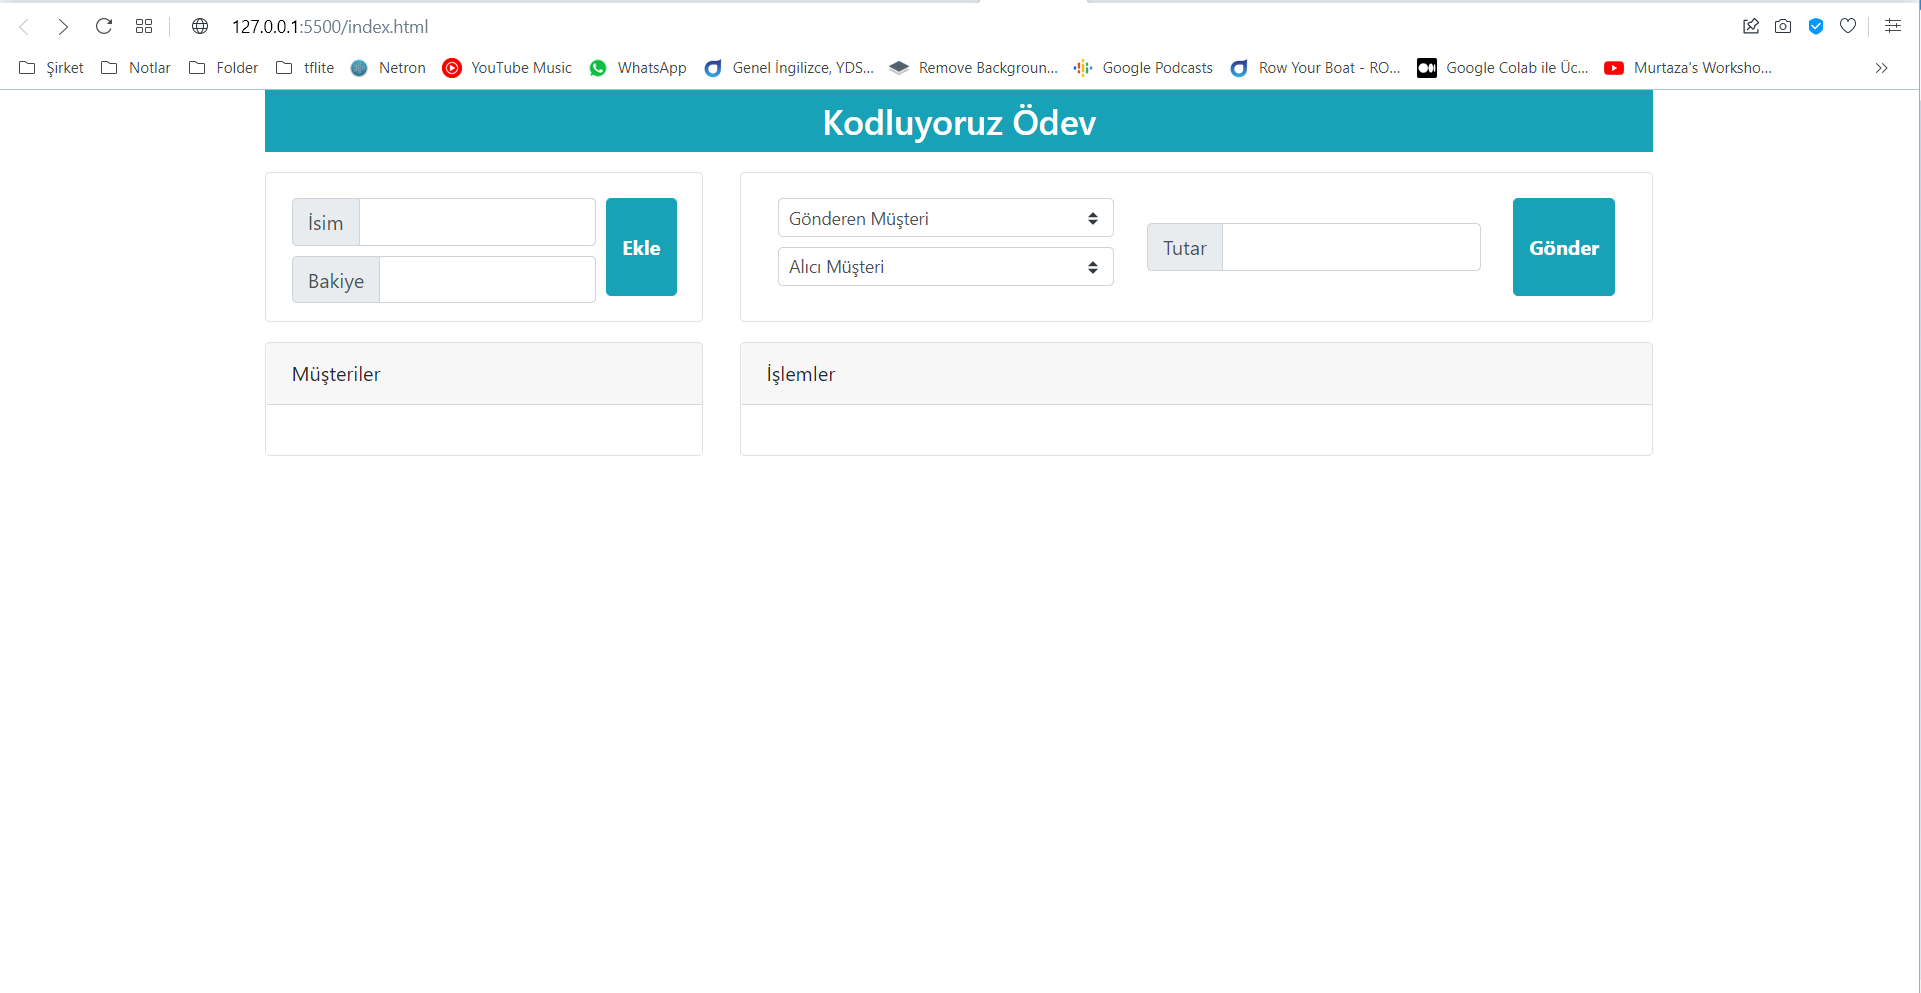
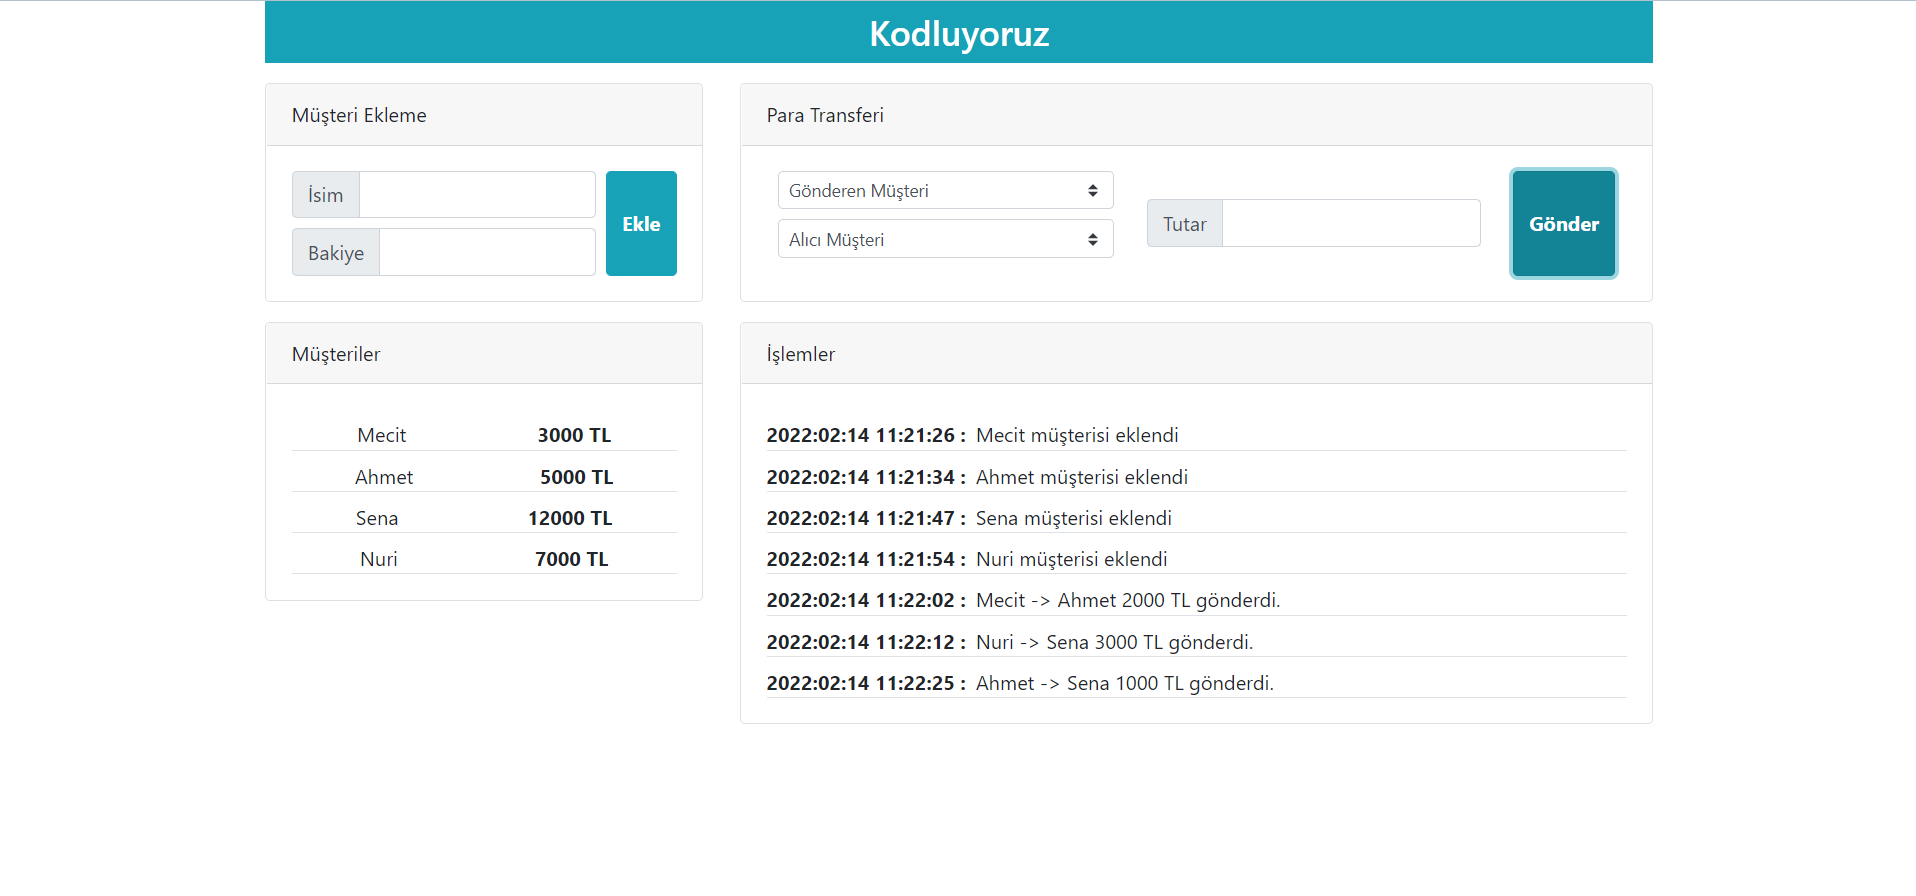
mecit

diff --git a/index.html b/index.html
@@ -17,12 +17,15 @@
     
     <div class="container">
         <footer class="bg-info text-center mb-3 p-2">
-            <h3 class="text-white m-0">Kodluyoruz Ödev</h3>
+            <h3 class="text-white m-0">Kodluyoruz</h3>
         </footer>
         <div class="row">
             <div class="col-4">
                 <!-- müşteri ekleme -->
-                <div class="card" style="height: 120px;">
+                <div class="card" style="height: 175px;">
+                    <div class="card-header">
+                        Müşteri Ekleme 
+                    </div>
                     <div class="card-body d-flex">
                         <div>
                             <div class="input-group mb-2">
@@ -59,7 +62,10 @@
 
             <!-- para transferi -->
             <div class="col-8">
-                <div class="card" style="height: 120px;">
+                <div class="card" style="height: 175px;">
+                    <div class="card-header">
+                        Para Transferi
+                    </div>
                     <div class="card-body d-flex justify-content-around">
                         <div class="mr-2">
                             <select id="sending-customer" class="custom-select custom-select-sm mb-2" >
